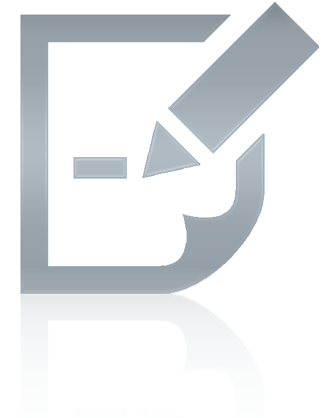
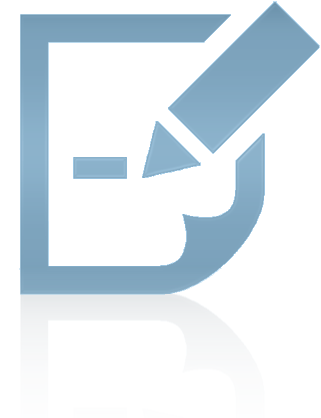
new images on services and new repository name

diff --git a/index.html b/index.html
@@ -113,7 +113,7 @@
     <div class="container">
       <h2 class="lead-hmd offset1 span10"><center>
         Herramientas web para investigaciones 
-        cl&iacute;nicas y estudios observacionales
+        cl&iacute;nicas
       </center></h2>
       <em class="lead-mute offset1 span10"><center>La manera f&aacute;cil de hacer ciencia!</center></em>
     </div>
